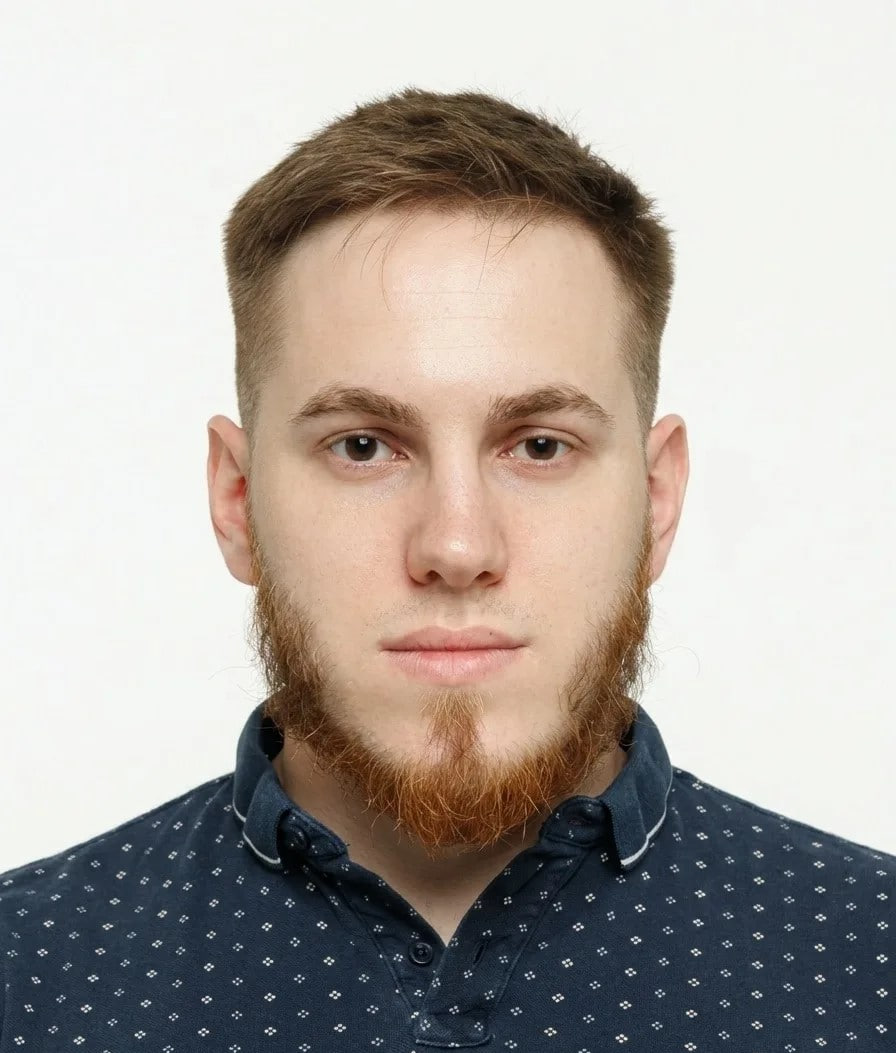
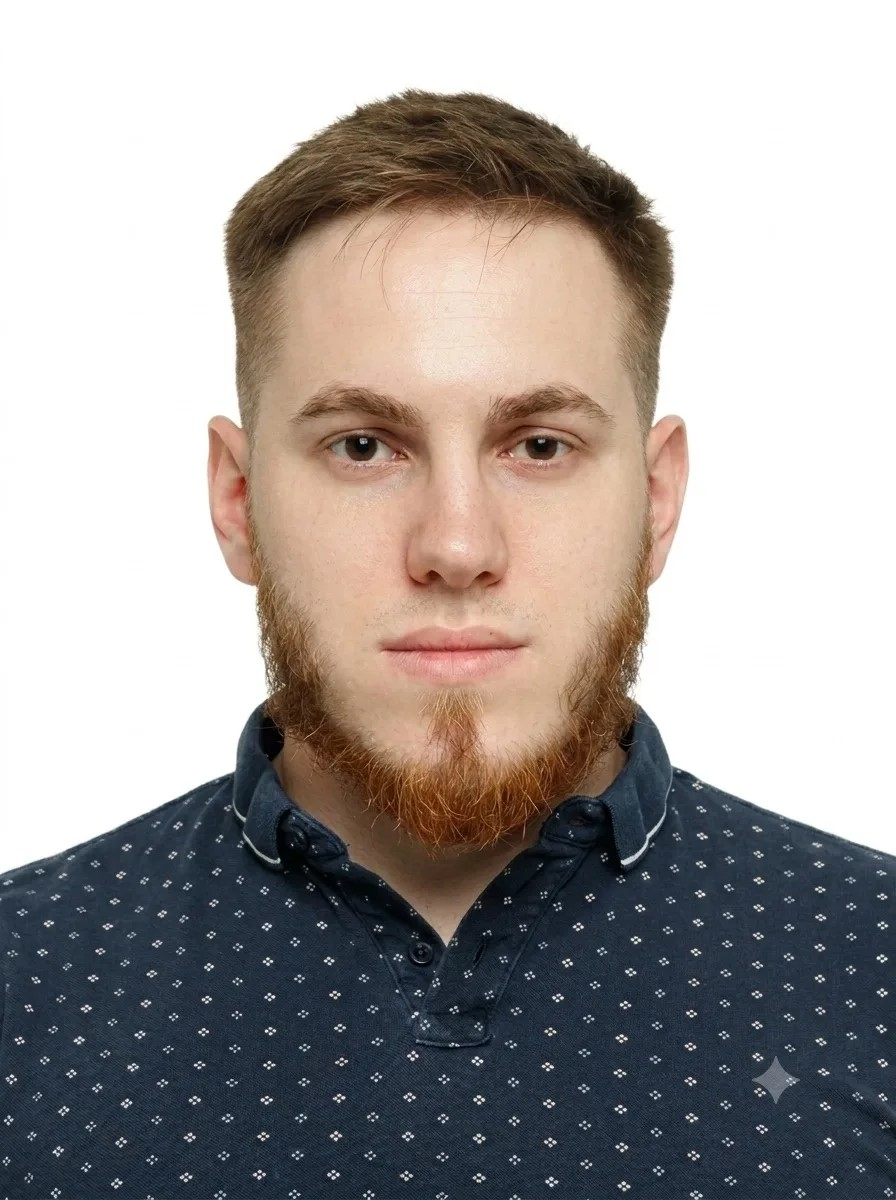
убрал баги и с таблице все сделал

diff --git a/index.html b/index.html
@@ -238,16 +238,16 @@
         <!-- Уровень 2 -->
         <div class="tier">
           <div class="node">
-            <span class="node__ava"><img src="assets/img/team/kabitsky.jpg" alt="Владимир Кабицкий" onerror="this.style.display='none'" /><i>ВК</i></span>
-            <span class="node__info"><b>Владимир Кабицкий</b><span>Председатель местного отделения</span></span>
+            <span class="node__ava"><img src="assets/img/team/lysakov.jpg" alt="Евгений Лысаков" onerror="this.style.display='none'" /><i>ЕЛ</i></span>
+            <span class="node__info"><b>Евгений Лысаков</b><span>Секретарь местного отделения</span></span>
           </div>
           <div class="node">
             <span class="node__ava"><img src="assets/img/team/shesterikov.jpg" alt="Алексей Шестериков" onerror="this.style.display='none'" /><i>АШ</i></span>
             <span class="node__info"><b>Алексей Шестериков</b><span>Депутат города Таганрога</span></span>
           </div>
           <div class="node">
-            <span class="node__ava"><img src="assets/img/team/lysakov.jpg" alt="Евгений Лысаков" onerror="this.style.display='none'" /><i>ЕЛ</i></span>
-            <span class="node__info"><b>Евгений Лысаков</b><span>Секретарь местного отделения</span></span>
+            <span class="node__ava"><img src="assets/img/team/kabitsky.jpg" alt="Владимир Кабицкий" onerror="this.style.display='none'" /><i>ВК</i></span>
+            <span class="node__info"><b>Владимир Кабицкий</b><span>Председатель местного отделения</span></span>
           </div>
         </div>
 
@@ -256,12 +256,12 @@
         <!-- Уровень 3 -->
         <div class="tier">
           <div class="node">
-            <span class="node__ava"><img src="assets/img/team/mikhaelyan.jpg" alt="Артем Михаелян" onerror="this.style.display='none'" /><i>АМ</i></span>
-            <span class="node__info"><b>Артем Михаелян</b><span>Координатор первичных отделений</span></span>
-          </div>
-          <div class="node">
             <span class="node__ava"><img src="assets/img/team/safronov.jpg" alt="Артем Сафронов" onerror="this.style.display='none'" /><i>АС</i></span>
             <span class="node__info"><b>Артем Сафронов</b><span>Руководитель штаба</span></span>
+          </div>
+          <div class="node">
+            <span class="node__ava"><img src="assets/img/team/mikhaelyan.jpg" alt="Артем Михаелян" onerror="this.style.display='none'" /><i>АМ</i></span>
+            <span class="node__info"><b>Артем Михаелян</b><span>Координатор первичных отделений</span></span>
           </div>
           <div class="node">
             <span class="node__ava"><img src="assets/img/team/avazov.jpg" alt="Рафаэль Авазов" onerror="this.style.display='none'" /><i>РА</i></span>
@@ -445,7 +445,7 @@
       </div>
 
       <div class="form-row-2">
-        <div class="field"><input class="input" id="obs-birthdate" type="date" aria-label="Дата рождения" /></div>
+        <div class="field"><input class="input" id="obs-birthdate" type="date" aria-label="Дата рождения" /><div class="err-msg">Регистрация с 18 лет — проверьте дату рождения</div></div>
         <div class="field"><input class="input" id="obs-phone" type="tel" placeholder="+7 (___) ___-__-__" inputmode="tel" autocomplete="tel" /><div class="err-msg">Введите корректный номер телефона</div></div>
       </div>
 

diff --git a/assets/js/main.js b/assets/js/main.js
@@ -54,6 +54,7 @@
   /* --- Маска телефона для всех полей type=tel --- */
   function formatPhone(value) {
     var d = value.replace(/\D/g, '');
+    if (!d) return '';                 // пустое поле остаётся пустым (можно стереть)
     if (d.charAt(0) === '8') d = '7' + d.slice(1);
     if (d.charAt(0) !== '7') d = '7' + d;
     d = d.slice(0, 11);
@@ -66,9 +67,12 @@
     return out;
   }
   $$('input[type="tel"]').forEach(function (ph) {
-    ph.addEventListener('input', function () { ph.value = formatPhone(ph.value); });
-    ph.addEventListener('focus', function () { if (!ph.value) ph.value = '+7 '; });
-    ph.addEventListener('blur', function () { if (ph.value === '+7 ' || ph.value === '+7') ph.value = ''; });
+    ph.addEventListener('input', function () {
+      // не мешаем стиранию: если пользователь удаляет — просто чистим лишние символы
+      var atEnd = ph.selectionStart === ph.value.length;
+      ph.value = formatPhone(ph.value);
+      if (atEnd) { try { ph.setSelectionRange(ph.value.length, ph.value.length); } catch (e) {} }
+    });
   });
 
   /* --- Общий помощник ошибок --- */
@@ -79,6 +83,13 @@
     if (em) em.classList.toggle('show', isErr);
   }
   function digits(v) { return (v || '').replace(/\D/g, ''); }
+  function ageFromDate(str) {
+    if (!str) return null;
+    var b = new Date(str); if (isNaN(b.getTime())) return null;
+    var t = new Date(), a = t.getFullYear() - b.getFullYear(), m = t.getMonth() - b.getMonth();
+    if (m < 0 || (m === 0 && t.getDate() < b.getDate())) a--;
+    return a;
+  }
 
   /* --- Основная форма: ПОДПИСЬ --- */
   var form = $('#apply-form');
@@ -147,6 +158,8 @@
       if (!oSurname.value.trim()) { markField(oSurname, true); ok = false; }
       if (!oFirst.value.trim()) { markField(oFirst, true); ok = false; }
       if (digits(oPhone.value).length < 11) { markField(oPhone, true); ok = false; }
+      var oBirth = $('#obs-birthdate'), oAge = ageFromDate(oBirth.value);
+      if (oAge === null || oAge < 18) { markField(oBirth, true); ok = false; }
       if (oConsent && !oConsent.checked) { if (oConsentErr) oConsentErr.classList.add('show'); ok = false; }
       if (oAdult && !oAdult.checked) { if (oAdultErr) oAdultErr.classList.add('show'); ok = false; }
       if (!ok) return;
